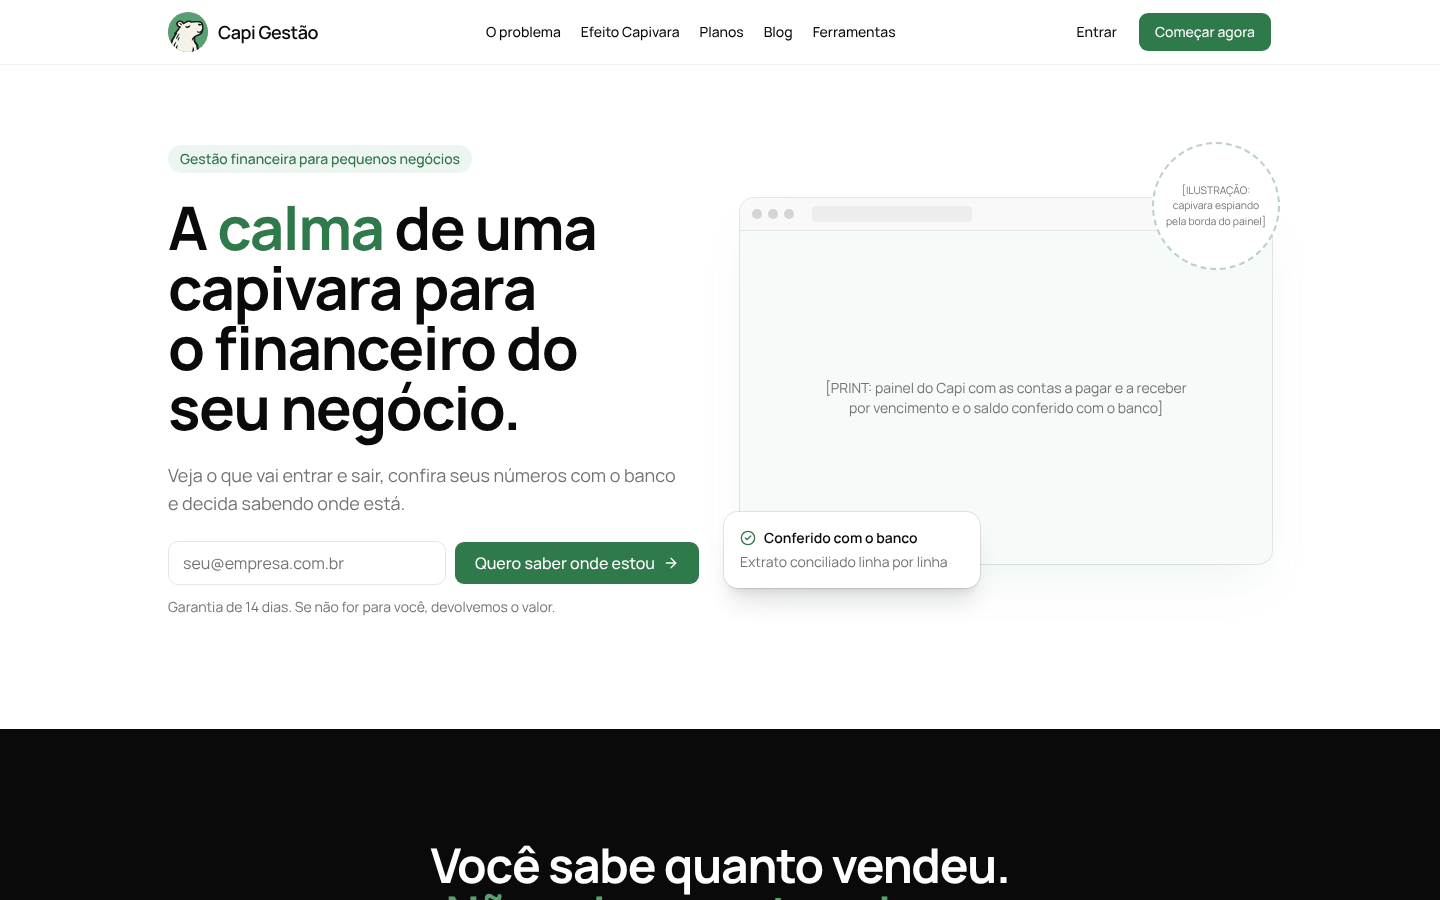
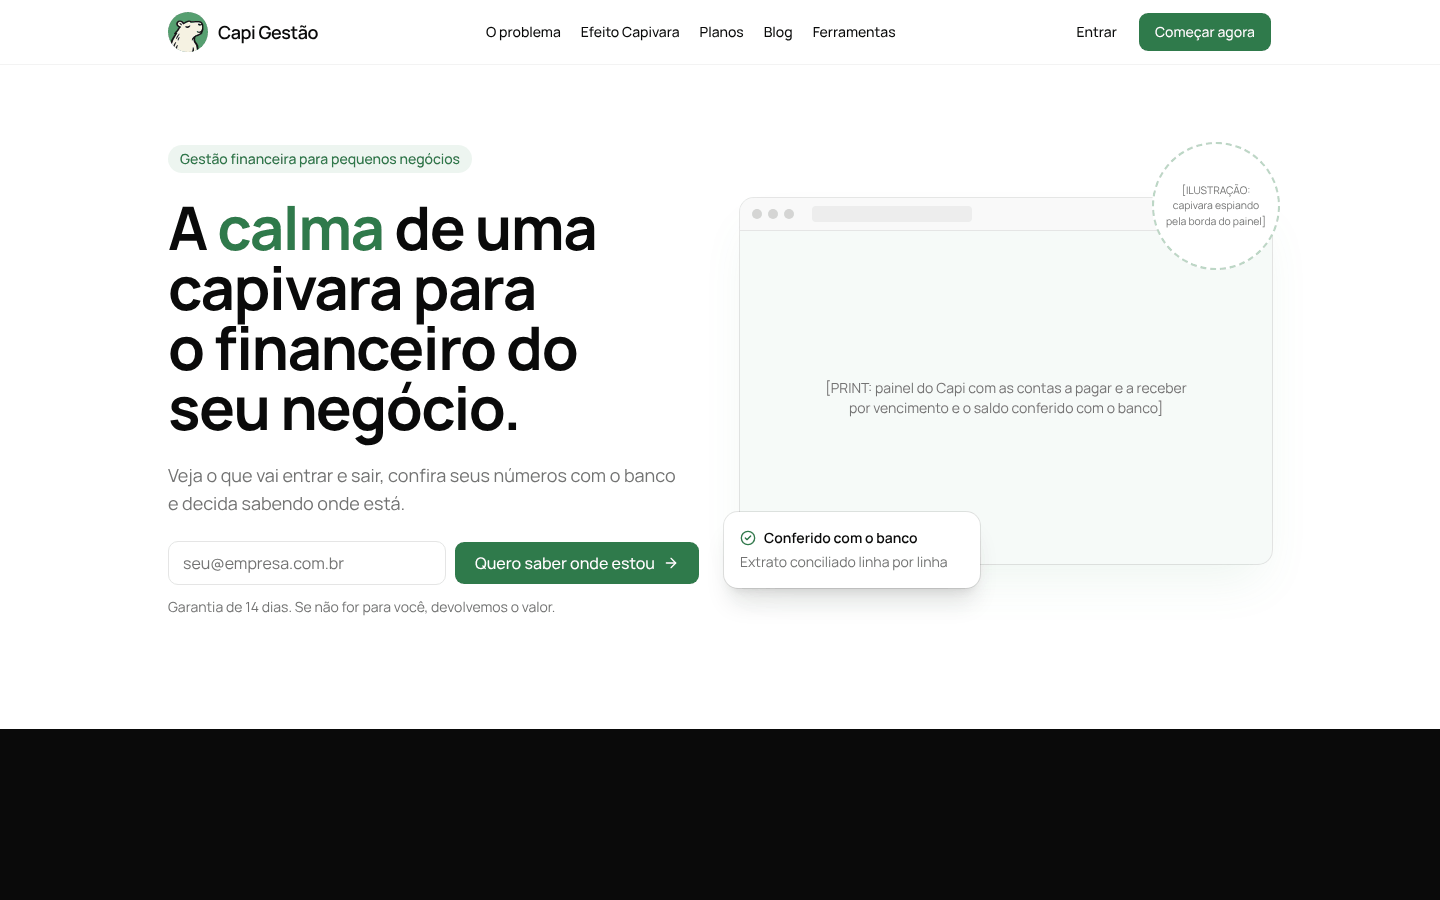
copy: seção da dor reduzida a uma frase de impacto
Saem os 4 cards com cenas e ícones. A faixa escura fica só com o título
"Seu saldo / não é seu dinheiro." em tipografia grande e fluida (sempre
em duas linhas, de 320 a 1440 px) e uma linha de apoio: "Parte dele já
tem dono: o fornecedor, o imposto, a folha. E você só descobre quando a
conta chega."

Claude-Session: https://claude.ai/code/session_01ViKXZaWHpWEN7kvEmURzc2

Changed region(s): [[0.2812, 0.9333, 0.6875, 1.0]]

diff --git a/src/components/landing/landing-page.tsx b/src/components/landing/landing-page.tsx
@@ -112,55 +112,16 @@ function Hero() {
   )
 }
 
-const PAINS = [
-  {
-    title: "Dia 28, 23h.",
-    text: "Você refaz a conta pela terceira vez e pensa: “acho que dá”.",
-    icon: "relógio marcando 23h sobre uma calculadora",
-  },
-  {
-    title: "“Venceu ontem.”",
-    text: "O boleto esquecido volta com multa, e você liga pedindo prazo de novo.",
-    icon: "boleto com carimbo de vencido",
-  },
-  {
-    title: "O saldo parecia folgado.",
-    text: "Você comprou estoque. Na quinta, o imposto levou o resto.",
-    icon: "caixa de estoque com moedas saindo dela",
-  },
-  {
-    title: "“E aí, está dando?”",
-    text: "Alguém em casa pergunta. Você diz “está indo” e muda de assunto.",
-    icon: "balão de conversa com reticências",
-  },
-]
-
-// First color band: the pain, kept to one line per card.
+// First color band: the pain in one blow, big type and nothing else.
 function Pain() {
   return (
-    <section id="problema" aria-labelledby="problema-title" className="scroll-mt-16 bg-foreground py-20 text-background lg:py-28">
-      <Container className="flex flex-col gap-12">
-        <div className="mx-auto flex max-w-2xl flex-col gap-4 text-center">
-          <h2 id="problema-title" className="text-3xl font-bold tracking-tight text-balance sm:text-5xl">
-            Você sabe quanto vendeu. <span className="text-brand">Não sabe quanto sobrou.</span>
-          </h2>
-          <p className="text-lg text-pretty text-background/70">E é nessa diferença que mora a ansiedade.</p>
-        </div>
-        <ul className="grid grid-cols-2 gap-3 sm:gap-4 lg:grid-cols-4">
-          {PAINS.map(({ title, text, icon }) => (
-            <li key={title} className="flex flex-col gap-3 rounded-3xl bg-background/[0.06] p-4 ring-1 ring-background/10 sm:gap-4 sm:p-6">
-              <ImagePlaceholder
-                label="ÍCONE 3D"
-                description={icon}
-                className="aspect-[4/3] w-full rounded-2xl border-brand/50 bg-brand/10 p-2 text-[0.6rem] text-background/60 sm:text-xs"
-              />
-              <h3 className="font-semibold sm:text-lg">{title}</h3>
-              <p className="text-sm text-background/70 sm:text-base">{text}</p>
-            </li>
-          ))}
-        </ul>
-        <p className="text-center text-xl font-semibold text-balance sm:text-2xl">
-          Você não está fazendo nada errado. <span className="text-brand">Está trabalhando sem enxergar.</span>
+    <section id="problema" aria-labelledby="problema-title" className="scroll-mt-16 bg-foreground py-28 text-background lg:py-40">
+      <Container className="flex max-w-4xl flex-col items-center gap-8 text-center">
+        <h2 id="problema-title" className="text-[clamp(2rem,10vw,4.5rem)] leading-tight font-bold tracking-tight">
+          Seu saldo <span className="block text-brand">não é seu dinheiro.</span>
+        </h2>
+        <p className="max-w-2xl text-xl text-pretty text-background/70 sm:text-2xl">
+          Parte dele já tem dono: o fornecedor, o imposto, a folha. E você só descobre quando a conta chega.
         </p>
       </Container>
     </section>
